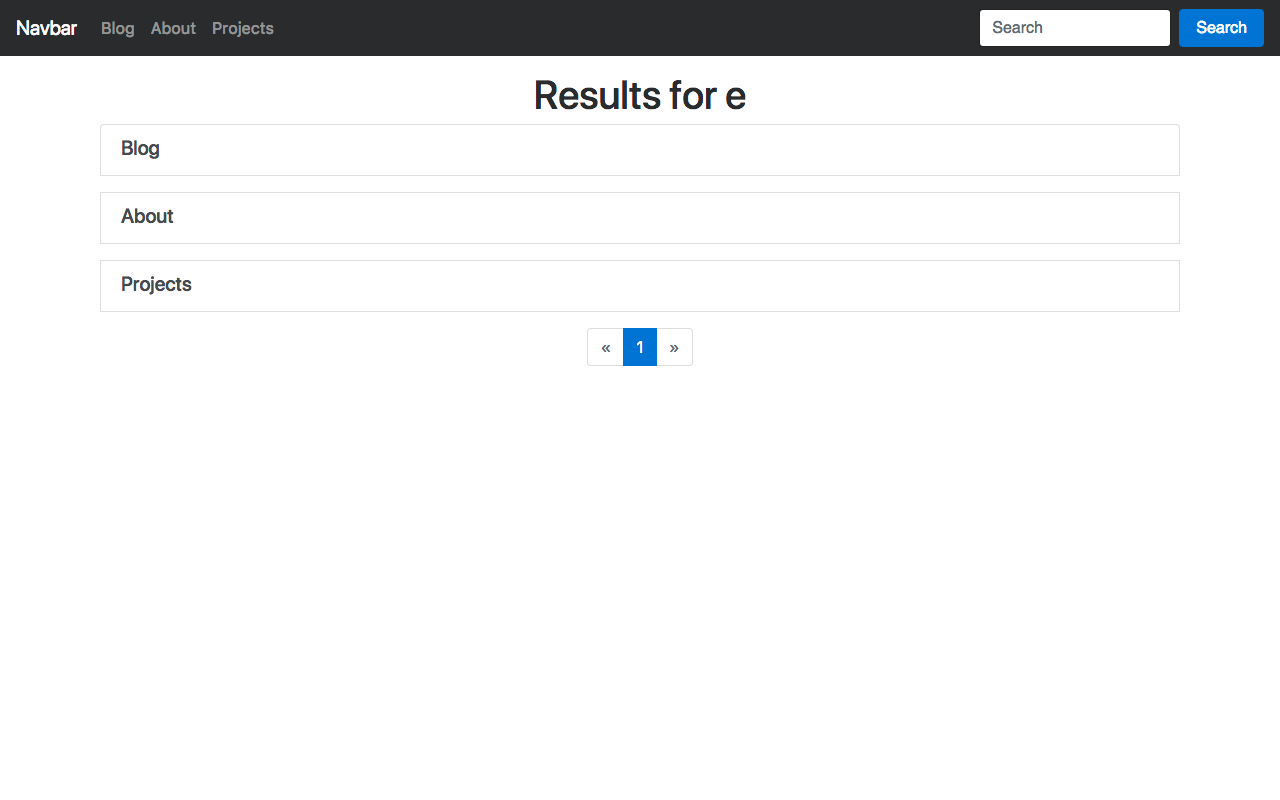
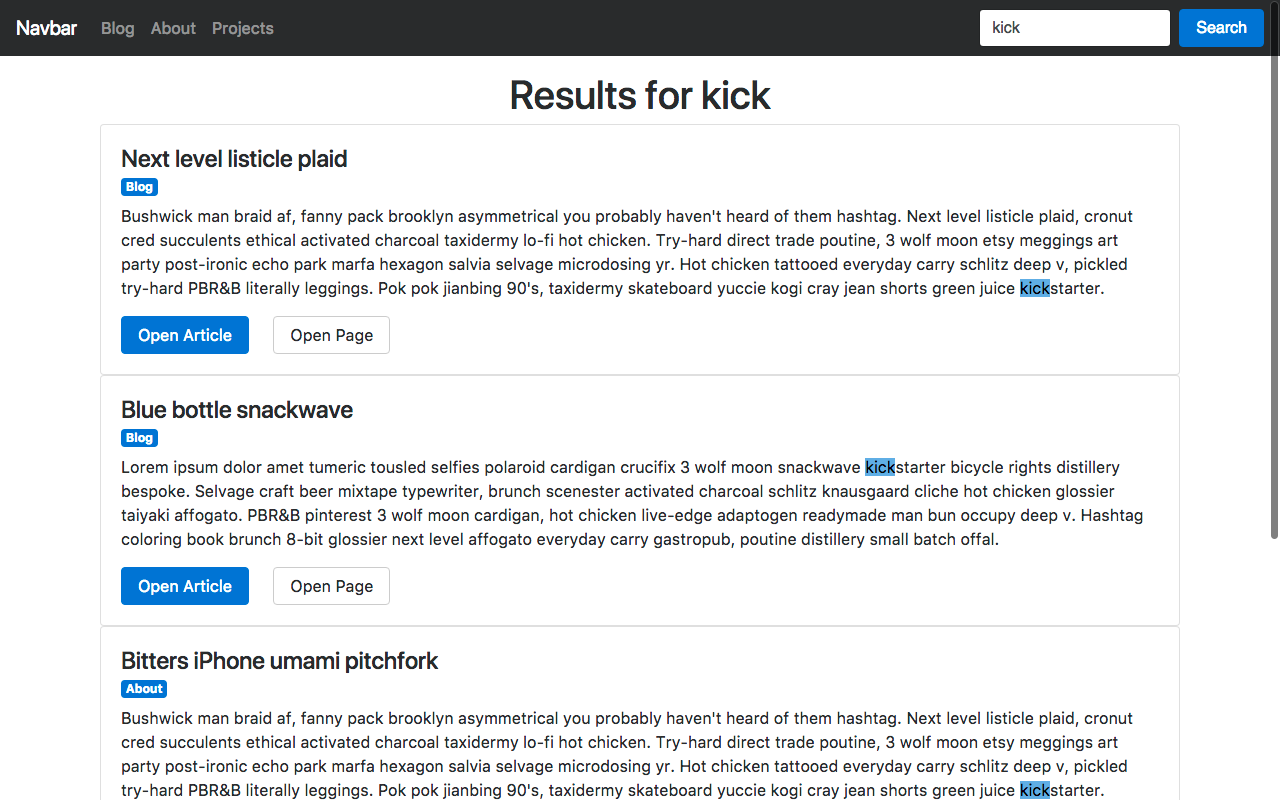
improved search

diff --git a/Sources/App/Models/Article.swift b/Sources/App/Models/Article.swift
@@ -2,6 +2,10 @@ import Foundation
 import FluentProvider
 import Slugify
 
+public enum ArticleContext: Context {
+	case short
+}
+
 final class Article: Model, Parameterizable {
 	
 	var name: String
@@ -61,10 +65,26 @@ extension Article: NodeRepresentable {
 		var node = Node(context)
 		try node.set("name", name)
 		try node.set("slug", slug)
-		try node.set("body", body)
 		try node.set("id", id)
 		try node.set("page", page.get())
+		
+		guard let providedContext = context else {
+			try node.set("body", body)
+			return node
+		}
 
+		if type(of: providedContext) != ArticleContext.self {
+			try node.set("body", body)
+			return node
+		}
+		
+		switch providedContext {
+			case ArticleContext.short:
+				try node.set("body", partialBody(numberOfCharacters: 750))
+				break
+			default: break
+		}
+		
 		return node
 	}
 }
@@ -83,6 +103,19 @@ extension Article: Preparation {
 	
 	static func revert(_ database: Database) throws {
 		try database.delete(self)
+	}
+}
+
+// MARK: Utilities
+
+extension Article {
+	
+	func partialBody(numberOfCharacters: Int) -> String {
+		if body.count <= numberOfCharacters {
+			return body
+		}
+		
+		return String(body.prefix(numberOfCharacters).appending("..."))
 	}
 }
 

diff --git a/Sources/App/ViewRenderer/ViewRenderer+Page.swift b/Sources/App/ViewRenderer/ViewRenderer+Page.swift
@@ -2,12 +2,12 @@ import Paginator
 
 extension ViewRenderer {
 	
-	func makePageView(_ request: Request, _ config: Config, pages: [Page], page: Page? = nil, articles: Paginator<Article>?) throws -> View {
+	func makePageView(_ request: Request, _ config: Config, pages: [Page], page: Page? = nil, articles: Node?) throws -> View {
 		return try self.make("page", [
 			"currentSlug": request.uri.lastPathComponent ?? "",
 			"pages": pages,
-			"page":  page ?? false,
-			"articles": articles ?? [],
+			"page":  page,
+			"articles": articles,
 			"google_analytics_identifier" : config["third_party", "ga_identifier"]?.string ?? false,
 			"disqus_name" : config["third_party", "disqus_name"]?.string ?? false
 			], for: request

diff --git a/Sources/App/Controllers/SearchController.swift b/Sources/App/Controllers/SearchController.swift
@@ -20,9 +20,10 @@ final class SearchController {
 		}
 		
 		let pages = try PageProvider.allPages()
-		let results = try PageProvider.pagesWithKeywordPaginated(search, count: 10, request: request)
+		let results = try ArticleProvider.articlesWithKeywordPaginated(search, count: 10, request: request)
+		let resultsWithShortBody = try results.makeNode(in: ArticleContext.short)
 		
-		return try view.makeSearchResultsView(request, config, search: search, pages: pages, results: results)
+		return try view.makeSearchResultsView(request, config, search: search, pages: pages, results: resultsWithShortBody)
 	}
 	
 	private func addRoutes() {

diff --git a/Sources/App/Provider/ArticleProvider.swift b/Sources/App/Provider/ArticleProvider.swift
@@ -1,3 +1,5 @@
+import Paginator
+
 final class ArticleProvider {
 	
 	static func allArticles() throws -> [Article] {
@@ -8,6 +10,15 @@ final class ArticleProvider {
 	static func articleWithId(_ id: String) throws -> Article? {
 		return try Article
 			.find(id)
+	}
+	
+	static func articlesWithKeywordPaginated(_ keyword: String, count: Int, request: Request) throws -> Paginator<Article> {
+		return try Article
+			.makeQuery()
+			.or() { orGroup in
+				try orGroup.filter("name", .contains, keyword)
+				try orGroup.filter("body", .contains, keyword)
+			}.paginator(count, request: request)
 	}
 }
 

diff --git a/Sources/App/Controllers/PageController.swift b/Sources/App/Controllers/PageController.swift
@@ -23,9 +23,11 @@ final class PageController {
 		let slug = request.uri.lastPathComponent ?? ""
 		let page = try PageProvider.pageWithSlug(slug)
 		let articles = try page?.articles.all().paginator(3, request: request)
+		let articlesWithShortBody = try articles?.makeNode(in: ArticleContext.short)
+
 		let pages = try PageProvider.allPages()
 		
-		return try view.makePageView(request, config, pages: pages, page: page, articles: articles)
+		return try view.makePageView(request, config, pages: pages, page: page, articles: articlesWithShortBody)
 	}
 	
 	// MARK: - Private Routes -

diff --git a/Sources/App/ViewRenderer/ViewRenderer+Search.swift b/Sources/App/ViewRenderer/ViewRenderer+Search.swift
@@ -2,7 +2,7 @@ import Paginator
 
 extension ViewRenderer {
 
-	func makeSearchResultsView(_ request: Request, _ config: Config, search: String, pages: [Page], results: Paginator<Page>) throws -> View {
+	func makeSearchResultsView(_ request: Request, _ config: Config, search: String, pages: [Page], results: Node) throws -> View {
 		return try self.make("search", [
 			"currentSlug": request.uri.lastPathComponent ?? "",
 			"searchTerm": search,
